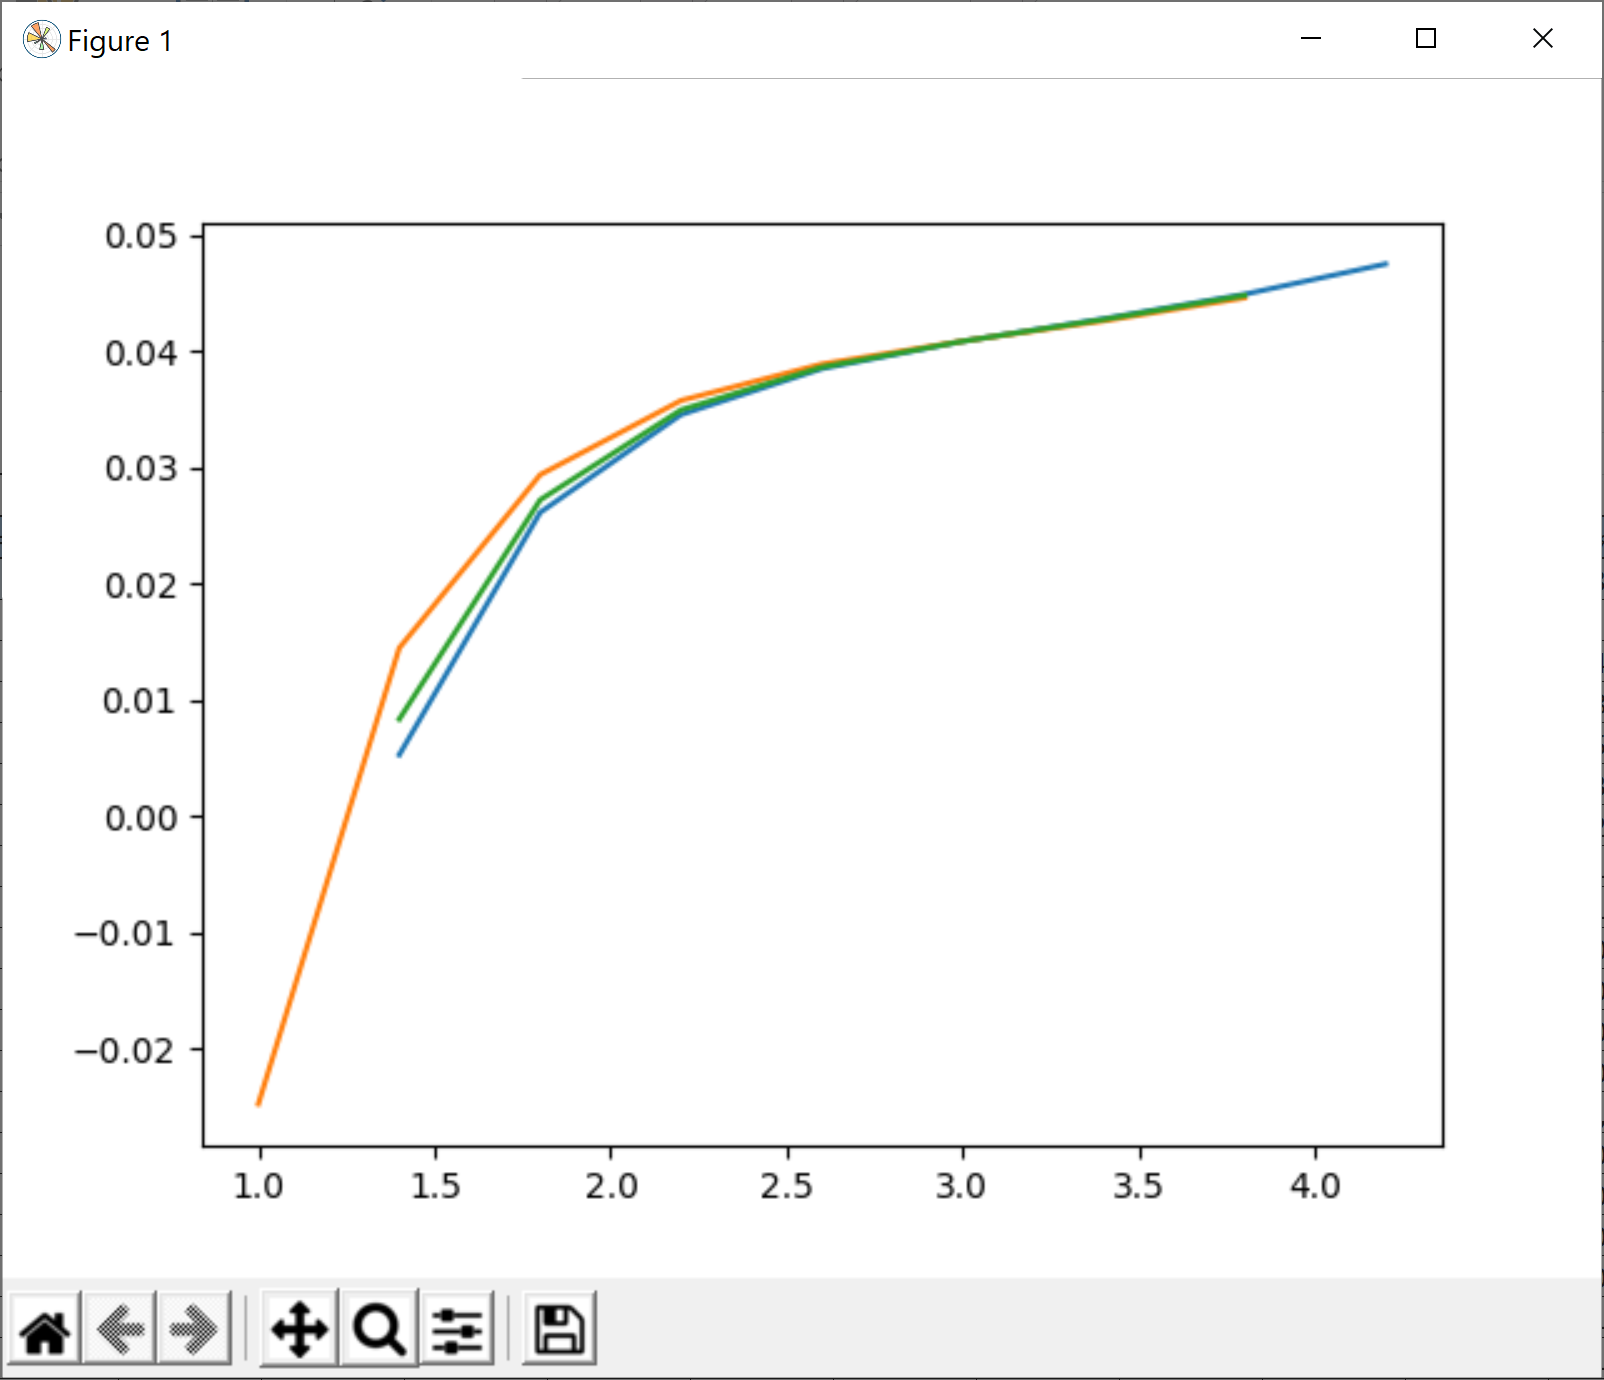
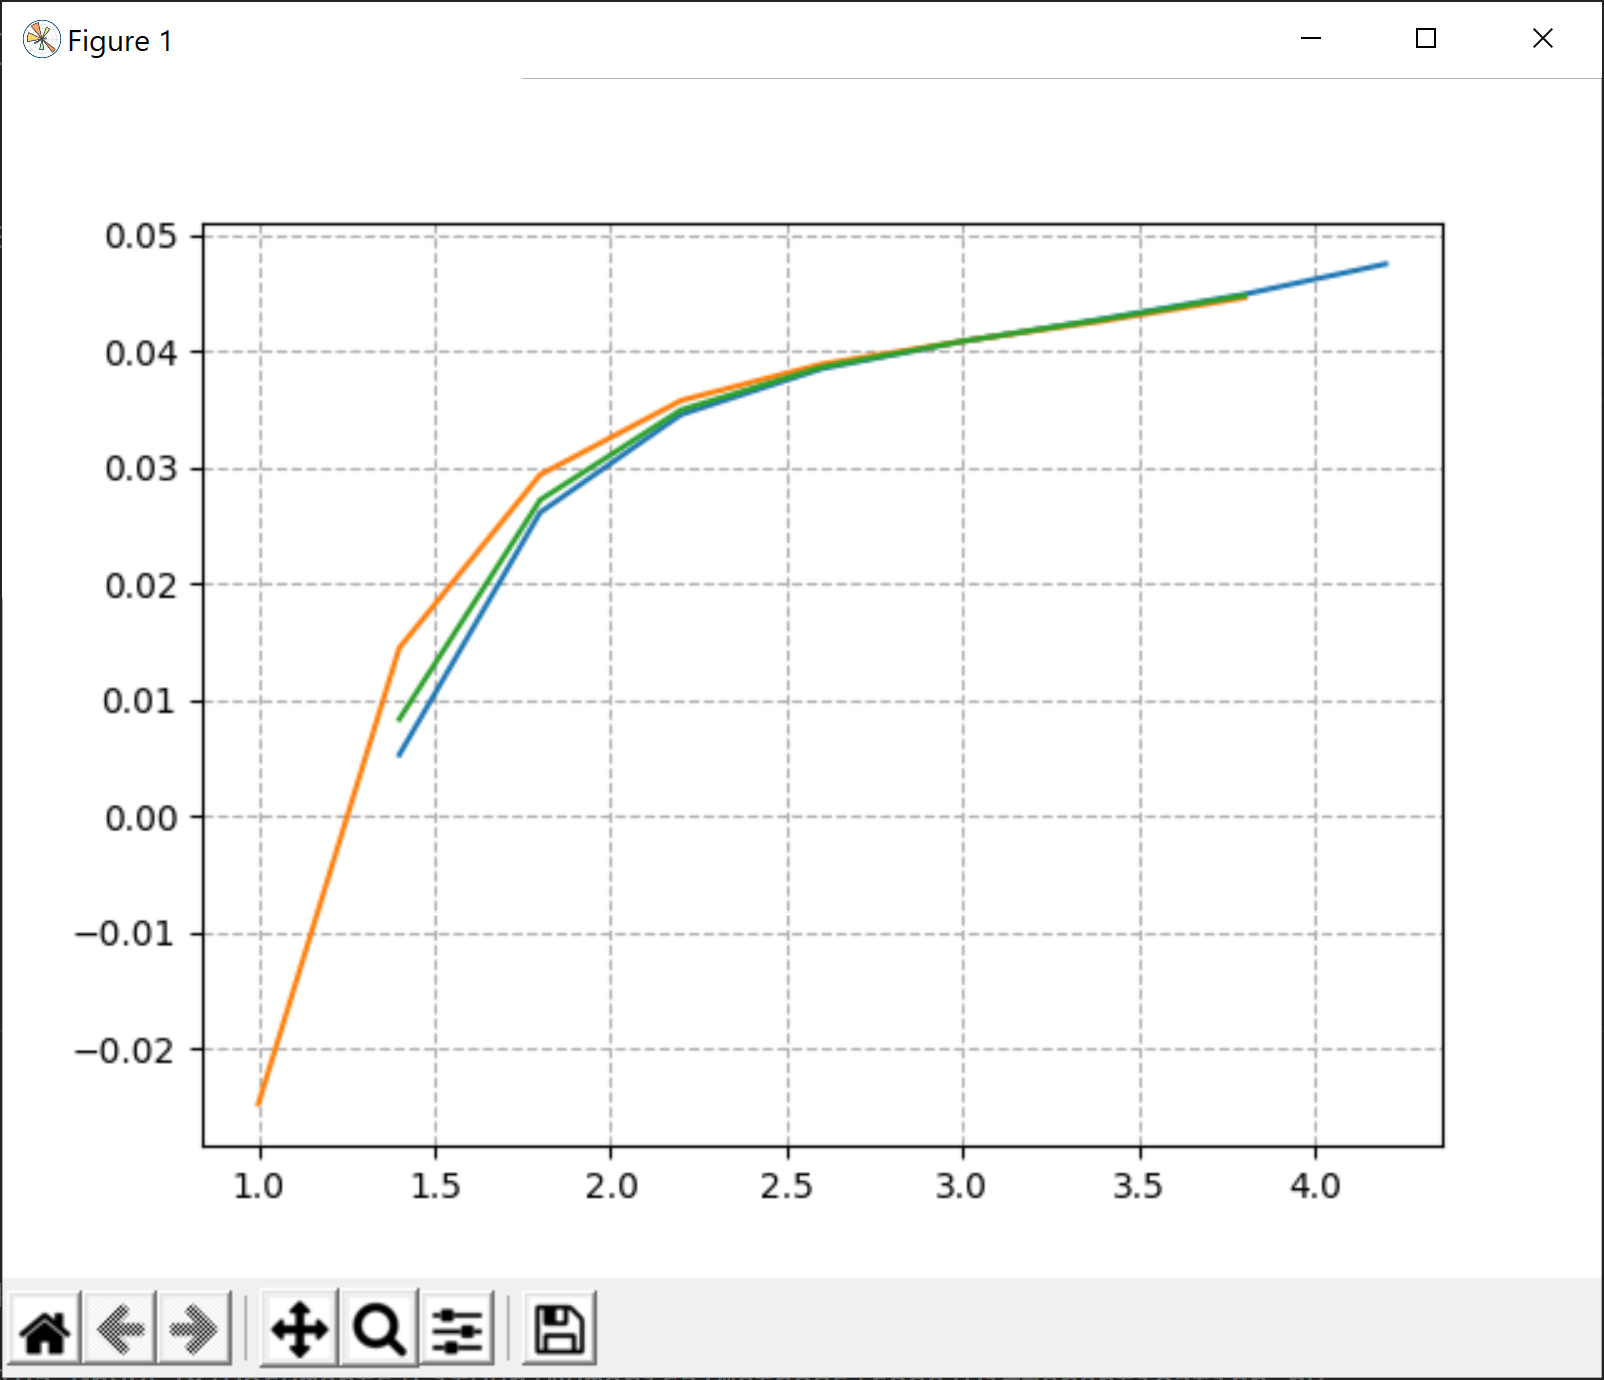
update images

diff --git a/code/QuadraticSpline.py b/code/QuadraticSpline.py
@@ -49,6 +49,7 @@ def to_normal_color(R,G,B):
     return (c*R, c*G, c*B)
 
 # Вывод на экран
+plt.grid(linestyle="--")
 plt.plot(x, y, color=to_normal_color(144, 0, 255))
 plt.plot(x_spline, y_spline, color=to_normal_color(255, 102, 232))
 plt.show()

diff --git a/code/Differentioation.py b/code/Differentioation.py
@@ -59,6 +59,7 @@ line_diff_4 = differentiation4(line, h)
 
 
 # Вывод на экран
+plt.grid(linestyle="--")
 plt.plot(
     line_diff_2[0], 
     line_diff_2[1])
